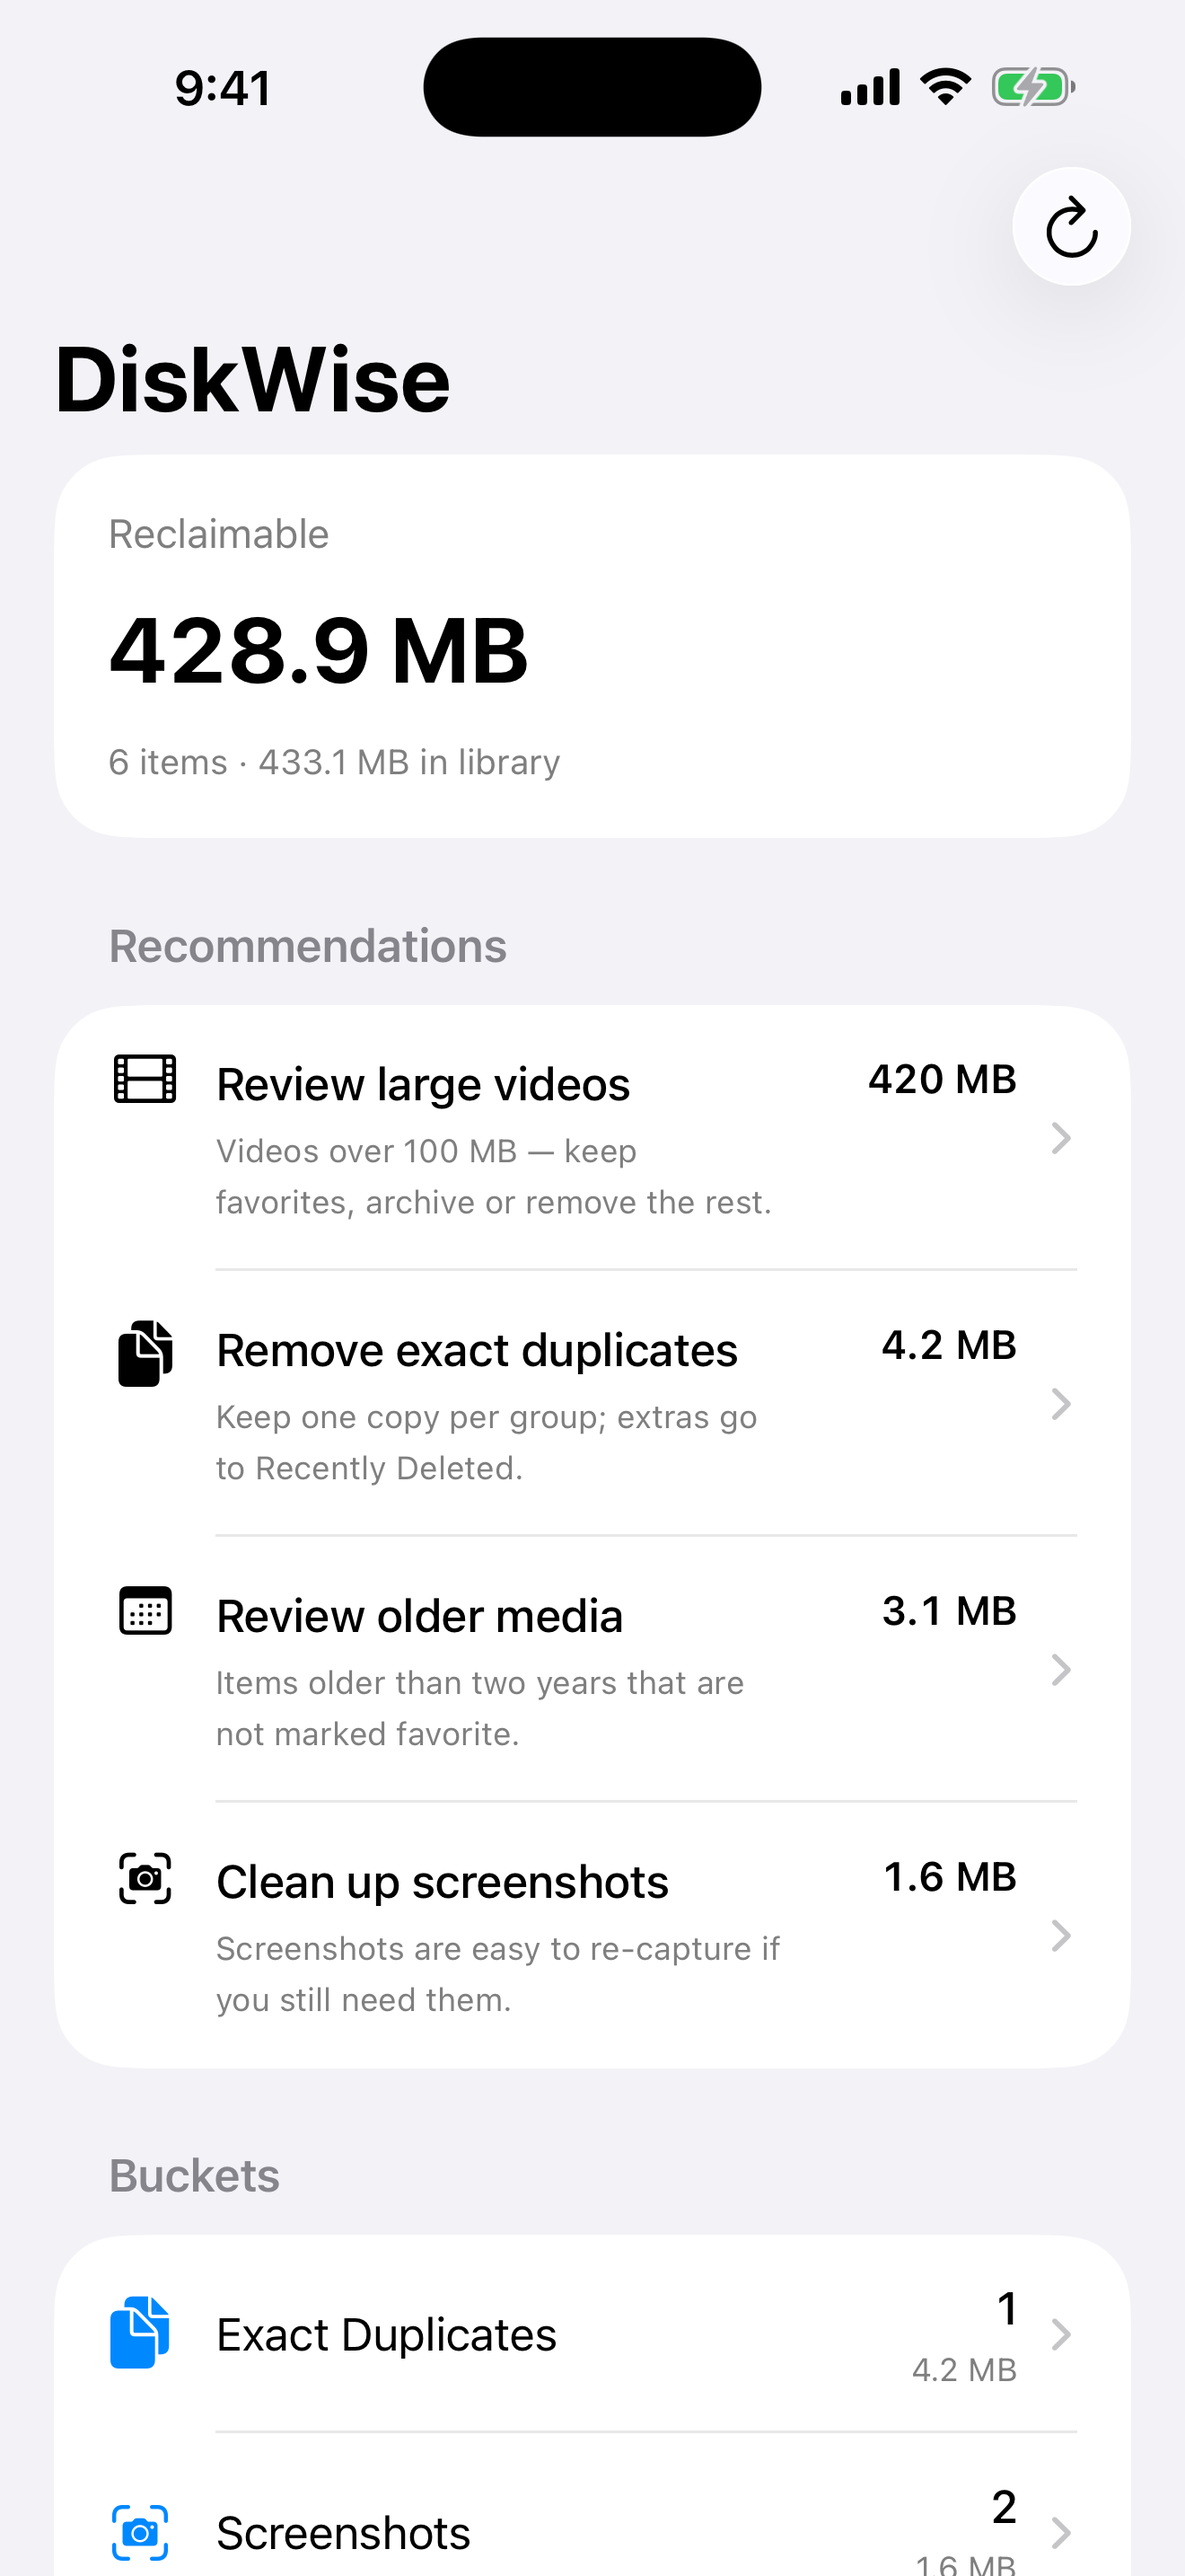
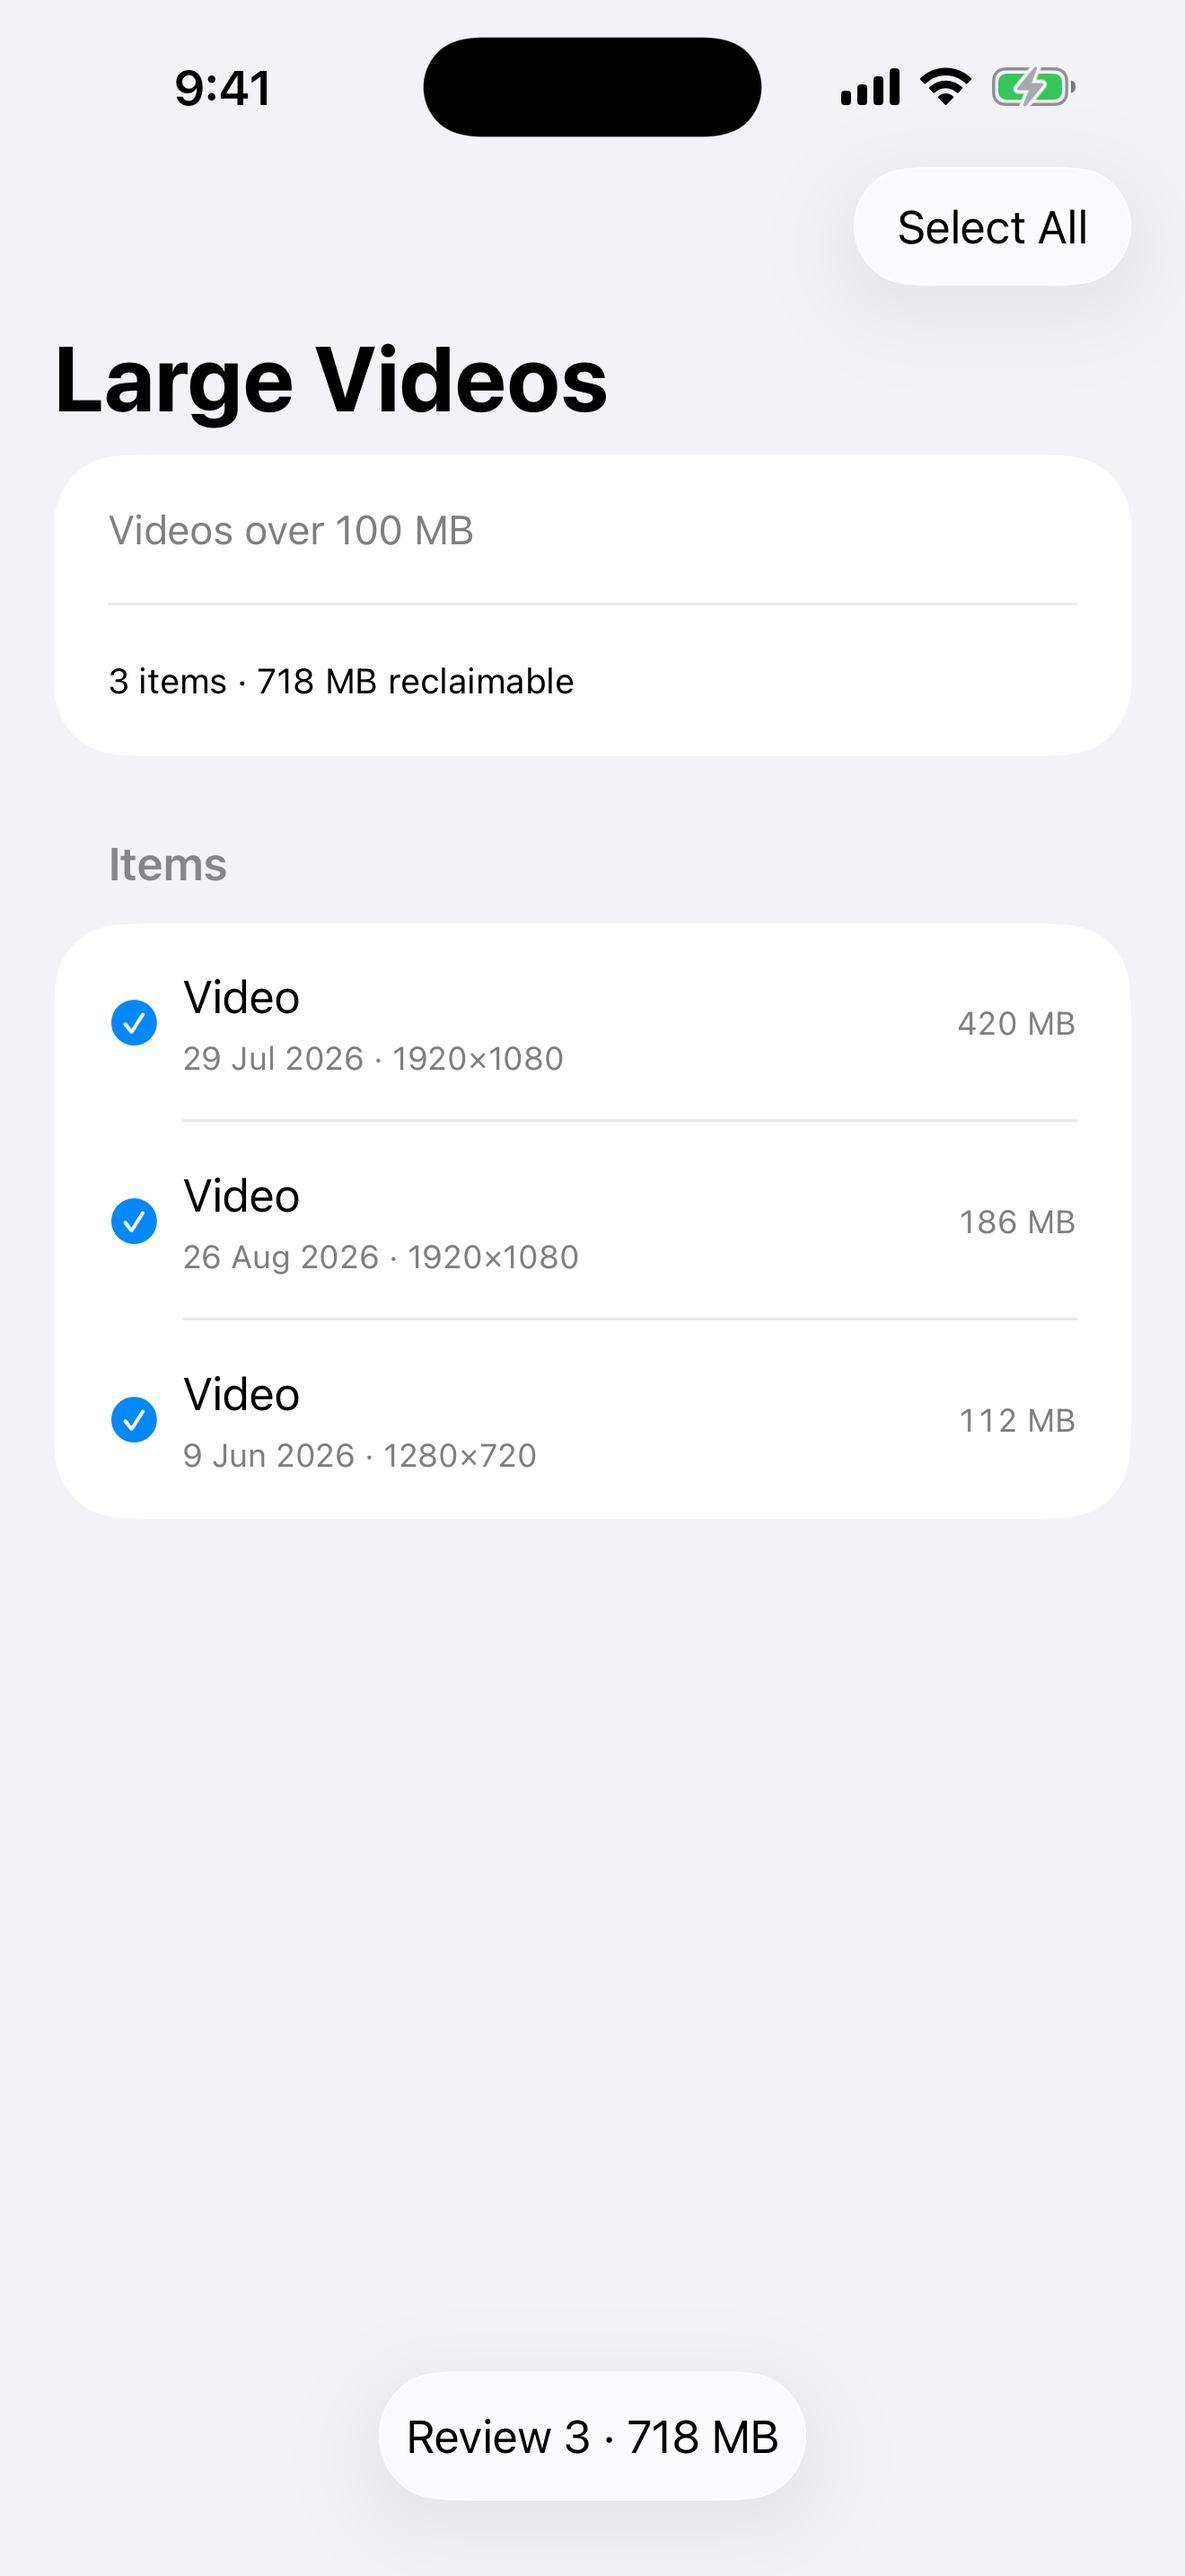
Refresh App Store screenshots and distinct demo routes for review.
Capture four unique demo frames, upload every 13" iPad slot, and keep recommendations visually separate from the dashboard.

diff --git a/app/DiskWiseiOS/AppViewModel.swift b/app/DiskWiseiOS/AppViewModel.swift
@@ -40,25 +40,64 @@ final class AppViewModel: ObservableObject {
         }
     }
 
+    /// Screenshots bucket — used by `bucket` / `confirm` App Store routes.
     var demoBucketSummary: PhotosBucketSummary? {
         report.buckets.first { $0.bucket == .screenshots } ?? report.buckets.first
+    }
+
+    /// Highest-savings recommendation bucket — used by `recommendations` route (must differ from dashboard).
+    var demoRecommendationSummary: PhotosBucketSummary? {
+        guard let rec = report.recommendations.first else { return nil }
+        return PhotosBucketSummary(
+            bucket: rec.bucket,
+            assetIDs: rec.assetIDs,
+            reclaimableBytes: rec.estimatedSavings
+        )
     }
 
     private func loadDemoReport() {
         authorization = .authorized
         let day = Date()
-        let assets = [
+        // Rich enough for 13" iPad screenshots — sparse lists look like placeholders to App Review.
+        var assets: [PhotoAssetRecord] = [
             PhotoAssetRecord(id: "d1", mediaType: .image, byteSize: 4_200_000, pixelWidth: 4032, pixelHeight: 3024, creationDate: day),
             PhotoAssetRecord(id: "d2", mediaType: .image, byteSize: 4_200_000, pixelWidth: 4032, pixelHeight: 3024, creationDate: day),
-            PhotoAssetRecord(id: "s1", mediaType: .image, byteSize: 890_000, pixelWidth: 1170, pixelHeight: 2532, creationDate: day, isScreenshot: true),
-            PhotoAssetRecord(id: "s2", mediaType: .image, byteSize: 720_000, pixelWidth: 1170, pixelHeight: 2532, creationDate: day.addingTimeInterval(-86_400), isScreenshot: true),
+            PhotoAssetRecord(id: "d3", mediaType: .image, byteSize: 3_800_000, pixelWidth: 4032, pixelHeight: 3024, creationDate: day.addingTimeInterval(-3_600)),
+            PhotoAssetRecord(id: "d4", mediaType: .image, byteSize: 3_800_000, pixelWidth: 4032, pixelHeight: 3024, creationDate: day.addingTimeInterval(-3_600)),
             PhotoAssetRecord(id: "v1", mediaType: .video, byteSize: 420_000_000, pixelWidth: 1920, pixelHeight: 1080, durationSeconds: 184, creationDate: day.addingTimeInterval(-86400 * 40)),
+            PhotoAssetRecord(id: "v2", mediaType: .video, byteSize: 186_000_000, pixelWidth: 1920, pixelHeight: 1080, durationSeconds: 96, creationDate: day.addingTimeInterval(-86400 * 12)),
+            PhotoAssetRecord(id: "v3", mediaType: .video, byteSize: 112_000_000, pixelWidth: 1280, pixelHeight: 720, durationSeconds: 64, creationDate: day.addingTimeInterval(-86400 * 90)),
             PhotoAssetRecord(id: "o1", mediaType: .image, byteSize: 3_100_000, pixelWidth: 3000, pixelHeight: 2000, creationDate: day.addingTimeInterval(-86400 * 800)),
+            PhotoAssetRecord(id: "o2", mediaType: .image, byteSize: 2_400_000, pixelWidth: 3000, pixelHeight: 2000, creationDate: day.addingTimeInterval(-86400 * 900)),
+            PhotoAssetRecord(id: "o3", mediaType: .image, byteSize: 2_100_000, pixelWidth: 2400, pixelHeight: 1600, creationDate: day.addingTimeInterval(-86400 * 1100)),
         ]
+        let shotSizes: [Int64] = [890_000, 720_000, 640_000, 580_000, 510_000, 470_000, 430_000, 390_000]
+        for (index, size) in shotSizes.enumerated() {
+            assets.append(
+                PhotoAssetRecord(
+                    id: "s\(index + 1)",
+                    mediaType: .image,
+                    byteSize: size,
+                    pixelWidth: 1170,
+                    pixelHeight: 2532,
+                    creationDate: day.addingTimeInterval(TimeInterval(-86_400 * index)),
+                    isScreenshot: true
+                )
+            )
+        }
         assetsByID = Dictionary(uniqueKeysWithValues: assets.map { ($0.id, $0) })
         report = PhotosInsightEngine().analyze(assets)
-        if demoRoute == .bucket || demoRoute == .confirm, let summary = demoBucketSummary {
-            selectedIDs = Set(summary.assetIDs)
+        switch demoRoute {
+        case .recommendations:
+            if let summary = demoRecommendationSummary {
+                selectedIDs = Set(summary.assetIDs)
+            }
+        case .bucket, .confirm:
+            if let summary = demoBucketSummary {
+                selectedIDs = Set(summary.assetIDs)
+            }
+        case .dashboard, .none:
+            break
         }
     }
 

diff --git a/app/DiskWiseiOS/Views/RootViews.swift b/app/DiskWiseiOS/Views/RootViews.swift
@@ -19,7 +19,7 @@ struct RootView: View {
             .navigationTitle(demoNavigationTitle)
             .toolbar {
                 ToolbarItem(placement: .topBarTrailing) {
-                    if model.canScan, model.demoRoute == nil || model.demoRoute == .dashboard || model.demoRoute == .recommendations {
+                    if model.canScan, model.demoRoute == nil || model.demoRoute == .dashboard {
                         Button {
                             Task { await model.scan() }
                         } label: {
@@ -47,8 +47,15 @@ struct RootView: View {
     @ViewBuilder
     private func demoScreen(for route: DemoScreenshotRoute) -> some View {
         switch route {
-        case .dashboard, .recommendations:
+        case .dashboard:
             DashboardView()
+        case .recommendations:
+            // Must be visually distinct from dashboard (App Review 2.3.3).
+            if let summary = model.demoRecommendationSummary {
+                BucketDetailView(summary: summary)
+            } else {
+                DashboardView()
+            }
         case .bucket:
             if let summary = model.demoBucketSummary {
                 BucketDetailView(summary: summary)
@@ -62,11 +69,13 @@ struct RootView: View {
 
     private var demoNavigationTitle: String {
         switch model.demoRoute {
+        case .recommendations:
+            return model.demoRecommendationSummary?.bucket.title ?? "Large Videos"
         case .bucket:
             return model.demoBucketSummary?.bucket.title ?? "Screenshots"
         case .confirm:
             return "Confirm cleanup"
-        case .dashboard, .recommendations, .none:
+        case .dashboard, .none:
             return "DiskWise"
         }
     }

diff --git a/scripts/upload-app-store-listing.py b/scripts/upload-app-store-listing.py
@@ -31,7 +31,12 @@ PREVIEW_TYPES = {
 # Fallback display types Apple has used across API versions.
 DISPLAY_TYPE_FALLBACKS = {
     "APP_IPHONE_69": ["APP_IPHONE_69", "APP_IPHONE_67"],
-    "APP_IPAD_PRO_129": ["APP_IPAD_PRO_129", "APP_IPAD_PRO_3GEN_129", "APP_IPAD_PRO_2018_129"],
+    # Upload to every 13" iPad slot Apple exposes in Media Manager.
+    "APP_IPAD_PRO_129": [
+        "APP_IPAD_PRO_129",
+        "APP_IPAD_PRO_3GEN_129",
+        "APP_IPAD_PRO_2018_129",
+    ],
     "APP_WATCH_ULTRA": ["APP_WATCH_ULTRA", "APP_WATCH_ULTRA_2", "APP_APPLE_WATCH_ULTRA"],
 }
 PREVIEW_TYPE_FALLBACKS = {
@@ -267,15 +272,37 @@ def ensure_set(
     relationship: str,
     set_type: str,
 ) -> str | None:
+    sets = ensure_all_sets(
+        client, loc_id, kind, type_attr, type_value, fallbacks, relationship, set_type
+    )
+    return sets[0] if sets else None
+
+
+def ensure_all_sets(
+    client: Client,
+    loc_id: str,
+    kind: str,
+    type_attr: str,
+    type_value: str,
+    fallbacks: list[str],
+    relationship: str,
+    set_type: str,
+) -> list[str]:
+    """Return set IDs for every matching display/preview type (create missing preferred ones)."""
     listed = client.get(
         f"/v1/appStoreVersionLocalizations/{loc_id}/{kind}"
     )["data"]
     existing = {item["attributes"][type_attr]: item["id"] for item in listed}
+    set_ids: list[str] = []
+    seen: set[str] = set()
+
     for candidate in fallbacks:
-        if candidate in existing:
-            return existing[candidate]
-    last_error = None
-    for candidate in fallbacks:
+        set_id = existing.get(candidate)
+        if set_id:
+            if set_id not in seen:
+                set_ids.append(set_id)
+                seen.add(set_id)
+            continue
         try:
             created = client.post(
                 f"/v1/{kind}",
@@ -294,13 +321,18 @@ def ensure_set(
                     }
                 },
             )
+            new_id = created["data"]["id"]
             print(f"Created {kind} {candidate}")
-            return created["data"]["id"]
+            if new_id not in seen:
+                set_ids.append(new_id)
+                seen.add(new_id)
         except SystemExit as error:
-            last_error = error
-            continue
-    print(f"Skip {kind} {type_value}: {last_error}")
-    return None
+            # Not every API generation accepts every display type enum.
+            print(f"Skip create {kind} {candidate}: {error}")
+
+    if not set_ids:
+        print(f"Skip {kind} {type_value}: no matching screenshot/preview sets")
+    return set_ids
 
 
 def replace_screenshots(client: Client, set_id: str, files: list[Path]) -> None:
@@ -416,19 +448,20 @@ def main() -> None:
     update_metadata(client, version, localizations)
 
     # Screenshots for every localization — Apple does not share sets across locales.
-    shot_order = (LISTING.get("screenshots") or {}).get("iphone-69") or [
-        "onboarding",
-        "panduan",
-        "tujuan",
-        "daftar",
-        "privasi",
+    default_order = [
+        "dashboard",
+        "recommendations",
+        "bucket",
+        "confirm",
     ]
-    shot_stems = [name.replace(".png", "") for name in shot_order]
-    screenshot_map = {
-        "iphone-69": ordered_pngs(ASC_ROOT / "iphone-69", shot_stems),
-        "ipad-13": ordered_pngs(ASC_ROOT / "ipad-13", shot_stems),
-        "watch-ultra": [],
-    }
+    screenshot_map: dict[str, list[Path]] = {}
+    for key in ("iphone-69", "ipad-13", "watch-ultra"):
+        order = (LISTING.get("screenshots") or {}).get(key) or [
+            f"{stem}.png" for stem in default_order
+        ]
+        stems = [name.replace(".png", "") for name in order]
+        screenshot_map[key] = ordered_pngs(ASC_ROOT / key, stems)
+
     preview_map = {
         "iphone-69": [],
         "ipad-13": [],
@@ -444,7 +477,7 @@ def main() -> None:
                 print("Skip Watch screenshots because HALORT_SKIP_WATCH=1.")
                 continue
             type_value = DISPLAY_TYPES[key]
-            set_id = ensure_set(
+            set_ids = ensure_all_sets(
                 client,
                 loc_id,
                 "appScreenshotSets",
@@ -454,10 +487,9 @@ def main() -> None:
                 "appStoreVersionLocalization",
                 "appScreenshotSets",
             )
-            if not set_id:
-                continue
-            print(f"Uploading screenshots {locale_code}/{key}...")
-            replace_screenshots(client, set_id, files)
+            for set_id in set_ids:
+                print(f"Uploading screenshots {locale_code}/{key} → set {set_id}...")
+                replace_screenshots(client, set_id, files)
 
         for key, files in preview_map.items():
             files = [p for p in files if p.exists()]

diff --git a/scripts/prepare-app-store-metadata.py b/scripts/prepare-app-store-metadata.py
@@ -130,27 +130,35 @@ def ensure_age_rating(client, version_id: str) -> None:
 
 
 def ensure_ipad_3gen_screenshots(client, upload) -> None:
+    """Refresh every 13\" iPad Media Manager slot (Apple hides some behind View All Sizes)."""
     version = upload.find_version(client)
     locs = upload.ensure_localizations(client, version["id"])
-    files = sorted((ASC_ROOT / "ipad-13").glob("*.png"))
+    order = (LISTING.get("screenshots") or {}).get("ipad-13") or [
+        "dashboard.png",
+        "recommendations.png",
+        "bucket.png",
+        "confirm.png",
+    ]
+    stems = [name.replace(".png", "") for name in order]
+    files = upload.ordered_pngs(ASC_ROOT / "ipad-13", stems)
     if not files:
-        print("Skip APP_IPAD_PRO_3GEN_129 — no ipad screenshots on disk")
+        print("Skip iPad 13\" screenshots — none on disk")
         return
+    display_types = upload.DISPLAY_TYPE_FALLBACKS["APP_IPAD_PRO_129"]
     for locale, loc_id in locs.items():
-        set_id = upload.ensure_set(
+        set_ids = upload.ensure_all_sets(
             client,
             loc_id,
             "appScreenshotSets",
             "screenshotDisplayType",
-            "APP_IPAD_PRO_3GEN_129",
-            ["APP_IPAD_PRO_3GEN_129", "APP_IPAD_PRO_129", "APP_IPAD_PRO_2018_129"],
+            "APP_IPAD_PRO_129",
+            display_types,
             "appStoreVersionLocalization",
             "appScreenshotSets",
         )
-        if not set_id:
-            continue
-        print(f"Uploading APP_IPAD_PRO_3GEN_129 screenshots for {locale}…")
-        upload.replace_screenshots(client, set_id, files)
+        for set_id in set_ids:
+            print(f"Uploading 13\" iPad screenshots for {locale} → set {set_id}…")
+            upload.replace_screenshots(client, set_id, files)
 
 
 def ensure_privacy_nutrition(client) -> None:

diff --git a/app-store-connect/README.md b/app-store-connect/README.md
@@ -41,7 +41,7 @@ npm run appstore:price-free
 npm run appstore:submit
 ```
 
-`appstore:screenshots` erases the HaloRT App Store iPhone/iPad simulators first so leftover permission sheets from other apps cannot appear in DiskWise metadata.
+`appstore:screenshots` erases the HaloRT App Store iPhone/iPad simulators first so leftover permission sheets from other apps cannot appear in DiskWise metadata. It captures four distinct demo routes (`dashboard`, `recommendations` → large-videos detail, `bucket`, `confirm`) and fails if any two PNGs are identical. Upload refreshes every 13" iPad Media Manager slot (`APP_IPAD_PRO_129` / `3GEN` / `2018`) — open **View All Sizes** in ASC if a slot still looks stale.
 
 **Manual once (API cannot set this):** App Privacy → publish **Data Not Collected**  
 https://appstoreconnect.apple.com/apps/6806657352/appData/privacy/practice
